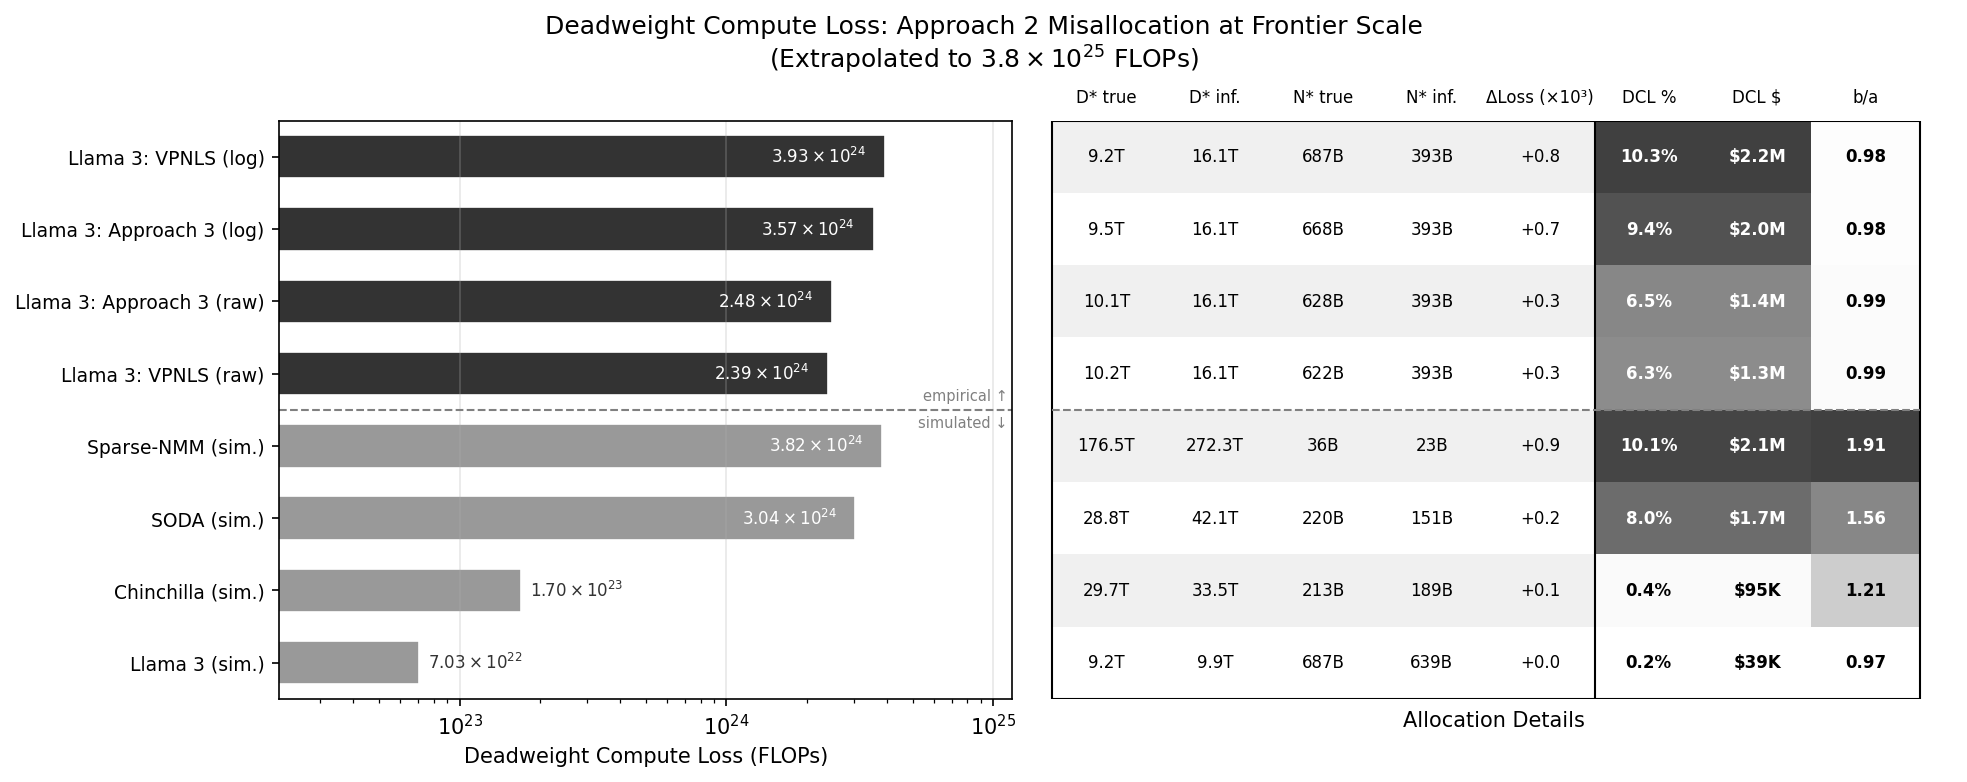
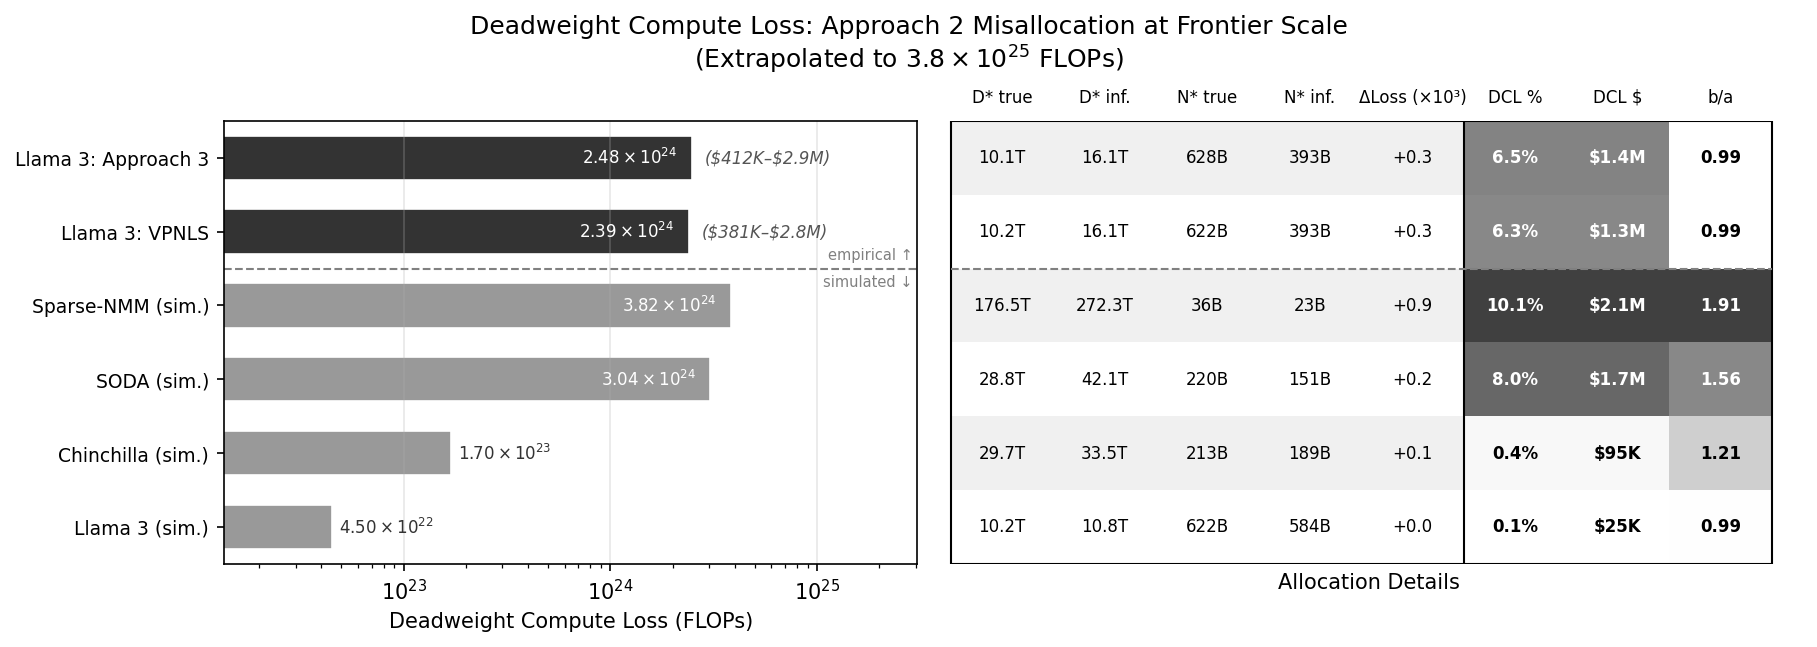
feat: add progressive filter figure, update DCL estimates to cite A3 only
- Add progressive_filter_llama3_a3.png as Fig 14 in article and
  fig:progressive-filter in paper
- Update all DCL citations from $1.3–2.2M range to $1.4M (Approach 3)
- Update percentages from 6–10% to 6.5% and overestimate from 58–75% to ~60%
- Add 90% CI ($412K–$2.9M) to paper abstract
- Rename A3 → 3 in progressive filter figure title
- Add figure copy entry to figures.py

diff --git a/results/article/article.html b/results/article/article.html
@@ -829,10 +829,7 @@
             <p>
                 We use MSE rather than the Huber objective throughout this study because it is the 
                 maximum likelihood estimator under the additive Gaussian noise assumed in
-                our simulations. We also assume this same noise model for real IsoFLOP data
-                after curating it extensively (including removing outliers) and providing 
-                evidence that neither heteroscedastic residuals across compute budgets nor 
-                non-Gaussian distributions are supported well by the data.
+                our simulations, or we remove outliers before fitting real data in most cases.
                 Some more details on these differences in optimization objectives, reparameterizations,
                 outcome scaling, and how they relate to common implementations are discussed in
                 <a href="#appendix-vpnls-validation">Appendix&nbsp;F</a> and the 
@@ -2355,8 +2352,8 @@
             <p>
                 <a href="#fig-13">Figure&nbsp;13</a> shows the results.
                 On the empirical Llama&nbsp;3 data, Approach&nbsp;2 overestimates the
-                compute-optimal token count by 58&ndash;75% depending on the reference
-                surface, yielding DCL of 6&ndash;10% of budget ($1.3&ndash;2.2M).
+                compute-optimal token count by ~60% relative to the Approach&nbsp;3
+                surface, yielding DCL of 6.5% of budget ($1.4M).
                 The simulated Llama&nbsp;3 condition, which isolates the systematic biases
                 from the IsoFLOP experiment design, produces only 0.2% DCL ($39K) at
                 <i>b/a</i>&nbsp;&asymp;&nbsp;0.97. This indicates that most of the empirical
@@ -2373,13 +2370,28 @@
                 training budget.
             </p>
 
+            <figure id="fig-14">
+                <img src="figures/compute_allocation_errors/progressive_filter_llama3_a3.png"
+                    alt="Progressive filtering impact on Approach 2 DCL relative to Approach 3">
+                <figcaption>
+                    <strong>Figure 14:</strong> Effect of progressive quality control filtering on
+                    Approach&nbsp;2 Deadweight Compute Loss, measured against an Approach&nbsp;3 surface
+                    fit to unfiltered Llama&nbsp;3 data. Each row cumulatively applies one QC stage.
+                    Nearly all DCL reduction comes from the off-center and weak-curvature filters,
+                    which target the specific Approach&nbsp;2 biases identified in this study.
+                    The right table reports points and budgets removed at each stage,
+                    along with DCL as a percentage of the
+                    3.8&times;10<sup>25</sup>&nbsp;FLOP evaluation budget and dollar cost.
+                </figcaption>
+            </figure>
+
             <div class="callout key-point">
                 <div class="callout-title">✓ Summary</div>
                 <p>
                     Based on Llama&nbsp;3 IsoFLOP data, Approach&nbsp;2 overestimates
-                    the compute-optimal token count by 58&ndash;75% at
-                    3.8&times;10<sup>25</sup>&nbsp;FLOPs, wasting 6&ndash;10% of the
-                    training budget ($1.3&ndash;2.2M in H100 time). Multimodal loss surfaces, 
+                    the compute-optimal token count by ~60% at
+                    3.8&times;10<sup>25</sup>&nbsp;FLOPs, wasting 6.5% of the
+                    training budget ($1.4M in H100 time). Multimodal loss surfaces,
                     where exponent asymmetry is typically larger, exhibit similarly significant misallocation 
                     errors (8&ndash;10% of budget costing $1.7&ndash;2.1M) under the same simulation conditions
                     for which Llama 3 errors reach only 0.2% waste. This suggests that designing IsoFLOP 
@@ -2411,7 +2423,7 @@
                 <a href="#real-isoflop-curves">prominent scaling law studies</a>
                 show clear signs of both asymmetry and off-center sampling.
                 At <a href="#error-costs">frontier compute scales</a>, we estimate that these biases
-                translate to a potential 6&ndash;10% decrease in training FLOPs ($1.3&ndash;2.2M) on Llama&nbsp;3 data and
+                translate to a potential 6.5% decrease in training FLOPs ($1.4M) on Llama&nbsp;3 data and
                 potentially more on multimodal surfaces with greater asymmetry.
             </p>
 

diff --git a/results/paper/paper.tex b/results/paper/paper.tex
@@ -53,8 +53,7 @@ approximation accuracy), uncentered IsoFLOP sampling, and loss surface
 asymmetry ($\alpha \neq \beta$). Effects of these errors are demonstrated as
 misallocations at open frontier compute scales. Applied to published Llama~3
 IsoFLOP data, these biases imply a parameter underallocation corresponding to
-6--10\% of the $3.8\times10^{25}$ FLOP training budget (valued at
-\$1.3--2.2M). Simulated multimodal model misallocations show even greater opportunity
+6.5\% of the $3.8\times10^{25}$ FLOP training budget and \$1.4M (90\% CI: \$412K--\$2.9M) in unnecessary compute (H100 hrs @ 50\% MFU). Simulated multimodal model misallocations show even greater opportunity
 costs due to higher loss surface asymmetry. Chinchilla Approach~3 largely eliminates these
 biases but is often regarded as less data-efficient, numerically unstable,
 prone to local minima, and harder to implement. Each concern is shown to be
@@ -1136,8 +1135,8 @@ H100-hour~\citep{olmo3}.
 \end{figure}
 
 Figure~\ref{fig:dcl} shows the results. On the empirical Llama~3 data,
-Approach~2 overestimates the compute-optimal token count by 58--75\% depending
-on the reference surface, yielding DCL of 6--10\% of budget (\$1.3--2.2M).
+Approach~2 overestimates the compute-optimal token count by ${\sim}60$\% relative to the Approach~3
+surface, yielding DCL of 6.5\% of budget (\$1.4M).
 The simulated Llama~3 condition, which isolates the systematic biases from the
 IsoFLOP experiment design, produces only 0.2\% DCL (\$39K) at
 $\beta/\alpha \approx 0.97$. This indicates that most of the empirical error
@@ -1151,10 +1150,24 @@ exponent asymmetry increases: SODA ($\beta/\alpha \approx 1.56$) reaches
 are more common in multimodal settings, Approach~2
 misallocations can waste a non-trivial fraction of a large training budget.
 
+\begin{figure}[ht]
+    \centering
+    \includegraphics[width=\textwidth]{../article/figures/compute_allocation_errors/progressive_filter_llama3_a3.png}
+    \caption{Effect of progressive quality control filtering on Approach~2
+    Deadweight Compute Loss, measured against an Approach~3 surface fit to
+    unfiltered Llama~3 data. Each row cumulatively applies one QC stage.
+    Nearly all DCL reduction comes from the off-center and weak-curvature
+    filters, which target the specific Approach~2 biases identified in
+    this study. The right table reports points and budgets
+    removed at each stage, along with DCL as a percentage of the
+    $3.8\times10^{25}$~FLOP evaluation budget and dollar cost.}
+    \label{fig:progressive-filter}
+\end{figure}
+
 \paragraph{Summary.}
 Based on Llama~3 IsoFLOP data, Approach~2 overestimates the compute-optimal
-token count by 58--75\% at $3.8\times10^{25}$~FLOPs, wasting 6--10\% of the
-training budget (\$1.3--2.2M in H100 time). Multimodal loss surfaces, where
+token count by ${\sim}60$\% at $3.8\times10^{25}$~FLOPs, wasting 6.5\% of the
+training budget (\$1.4M in H100 time). Multimodal loss surfaces, where
 exponent asymmetry is typically larger, exhibit similarly significant
 misallocation errors (8--10\% of budget costing \$1.7--2.1M) under the same
 simulation conditions for which Llama~3 errors reach only 0.2\% waste. This
@@ -1177,7 +1190,7 @@ curves from prominent scaling law studies
 (Section~\ref{sec:real_isoflop}) show clear signs of both asymmetry and
 off-center sampling. At frontier compute scales
 (Section~\ref{sec:error_costs}), we estimate that these biases translate to a
-potential 6--10\% decrease in training FLOPs (\$1.3--2.2M) on Llama~3 data
+potential 6.5\% decrease in training FLOPs (\$1.4M) on Llama~3 data
 and potentially more on multimodal surfaces with greater asymmetry.
 
 Approach~3 eliminates these biases. With grid initialization and LSE

diff --git a/src/scaling_law_analysis/article/figures.py b/src/scaling_law_analysis/article/figures.py
@@ -1547,6 +1547,10 @@ def copy_experiment_outputs(output_dir: Path) -> None:
             exp_dir / "exp11" / "compute_allocation_errors.png",
             error_costs_dir / "compute_allocation_errors.png",
         ),
+        (
+            exp_dir / "exp11" / "progressive_filter_llama3_a3.png",
+            error_costs_dir / "progressive_filter_llama3_a3.png",
+        ),
     ]
 
     for src, dst in appendix_copies + main_copies:

diff --git a/src/scaling_law_analysis/experiments/exp11_cost_estimates.py b/src/scaling_law_analysis/experiments/exp11_cost_estimates.py
@@ -1219,7 +1219,7 @@ def _run_progressive_filter(model: IsoFlopModelConfig, output_dir: Path) -> None
     raw_vpnls = _fit_vpnls(model.name, N, D, L)
 
     for method_label, surface, suffix in [
-        ("A3", raw_a3, "a3"),
+        ("3", raw_a3, "a3"),
         ("VPNLS", raw_vpnls, "vpnls"),
     ]:
         print(f"\n── Progressive filter ({model.name}): DCL vs {method_label} ──")

diff --git a/specs/paper.md b/specs/paper.md
@@ -58,7 +58,7 @@ The paper follows the article's structure with these renames and overrides:
 
 The article has no abstract; it uses a subtitle and opens directly into Motivation. The paper needs a standalone abstract. Render the following as-is (with necessary LaTeX formatting):
 
-> Chinchilla Approach 2 is among the most widely used methods for fitting neural scaling laws. Its parabolic approximation introduces systematic biases in compute-optimal allocation estimates, even on noise-free synthetic data. Three sources of error are examined: IsoFLOP sampling grid width (Taylor approximation accuracy), uncentered IsoFLOP sampling, and loss surface asymmetry (alpha != beta). Effects of these errors are demonstrated as misallocations at open frontier compute scales. Applied to published Llama 3 IsoFLOP data, these biases imply a parameter underallocation corresponding to 6.5% of the 3.8×10²⁵ FLOP training budget and **$1.4M** ($412k - 2.9M 90% CI) in unnecessary compute (H100 hrs @ 50% MFU). Simulated multimodal model misallocations show even greater opportunity costs due to higher loss surface asymmetry. Chinchilla Approach 3 largely eliminates these biases but is often regarded as less data-efficient, numerically unstable, prone to local minima, and harder to implement. Each concern is shown to be unfounded or addressable, especially when the partially linear structure of the objective is exploited via Variable Projection, enabling unbiased inference on all five loss surface parameters through a two-dimensional optimization that is well-conditioned, analytically differentiable, and amenable to dense, or even exhaustive, grid search. It may serve as a more convenient replacement for Approach 2 or a more scalable alternative for adaptations of Approach 3 to richer scaling law formulations.
+> Chinchilla Approach 2 is among the most widely used methods for fitting neural scaling laws. Its parabolic approximation introduces systematic biases in compute-optimal allocation estimates, even on noise-free synthetic data. Three sources of error are examined: IsoFLOP sampling grid width (Taylor approximation accuracy), uncentered IsoFLOP sampling, and loss surface asymmetry (alpha != beta). Effects of these errors are demonstrated as misallocations at open frontier compute scales. Applied to published Llama 3 IsoFLOP data, these biases imply a parameter underallocation corresponding to 6.5% of the 3.8×10²⁵ FLOP training budget and $1.4M (90% CI: $412K–$2.9M) in unnecessary compute (H100 hrs @ 50% MFU). Simulated multimodal model misallocations show even greater opportunity costs due to higher loss surface asymmetry. Chinchilla Approach 3 largely eliminates these biases but is often regarded as less data-efficient, numerically unstable, prone to local minima, and harder to implement. Each concern is shown to be unfounded or addressable, especially when the partially linear structure of the objective is exploited via Variable Projection, enabling unbiased inference on all five loss surface parameters through a two-dimensional optimization that is well-conditioned, analytically differentiable, and amenable to dense, or even exhaustive, grid search. It may serve as a more convenient replacement for Approach 2 or a more scalable alternative for adaptations of Approach 3 to richer scaling law formulations.
 
 ### Introduction (override)
 
